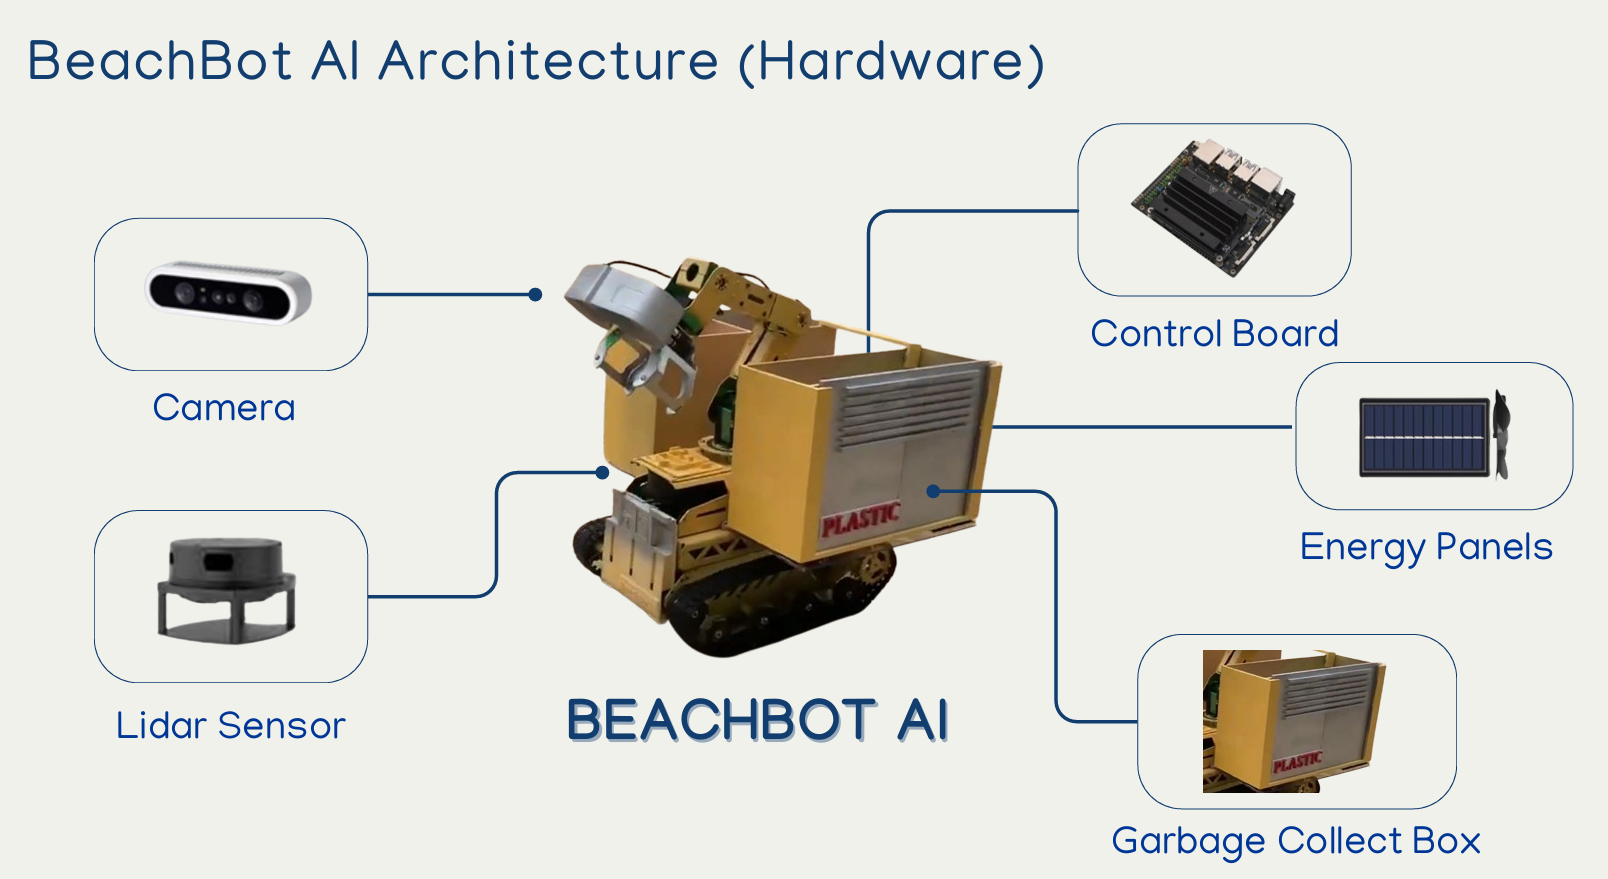
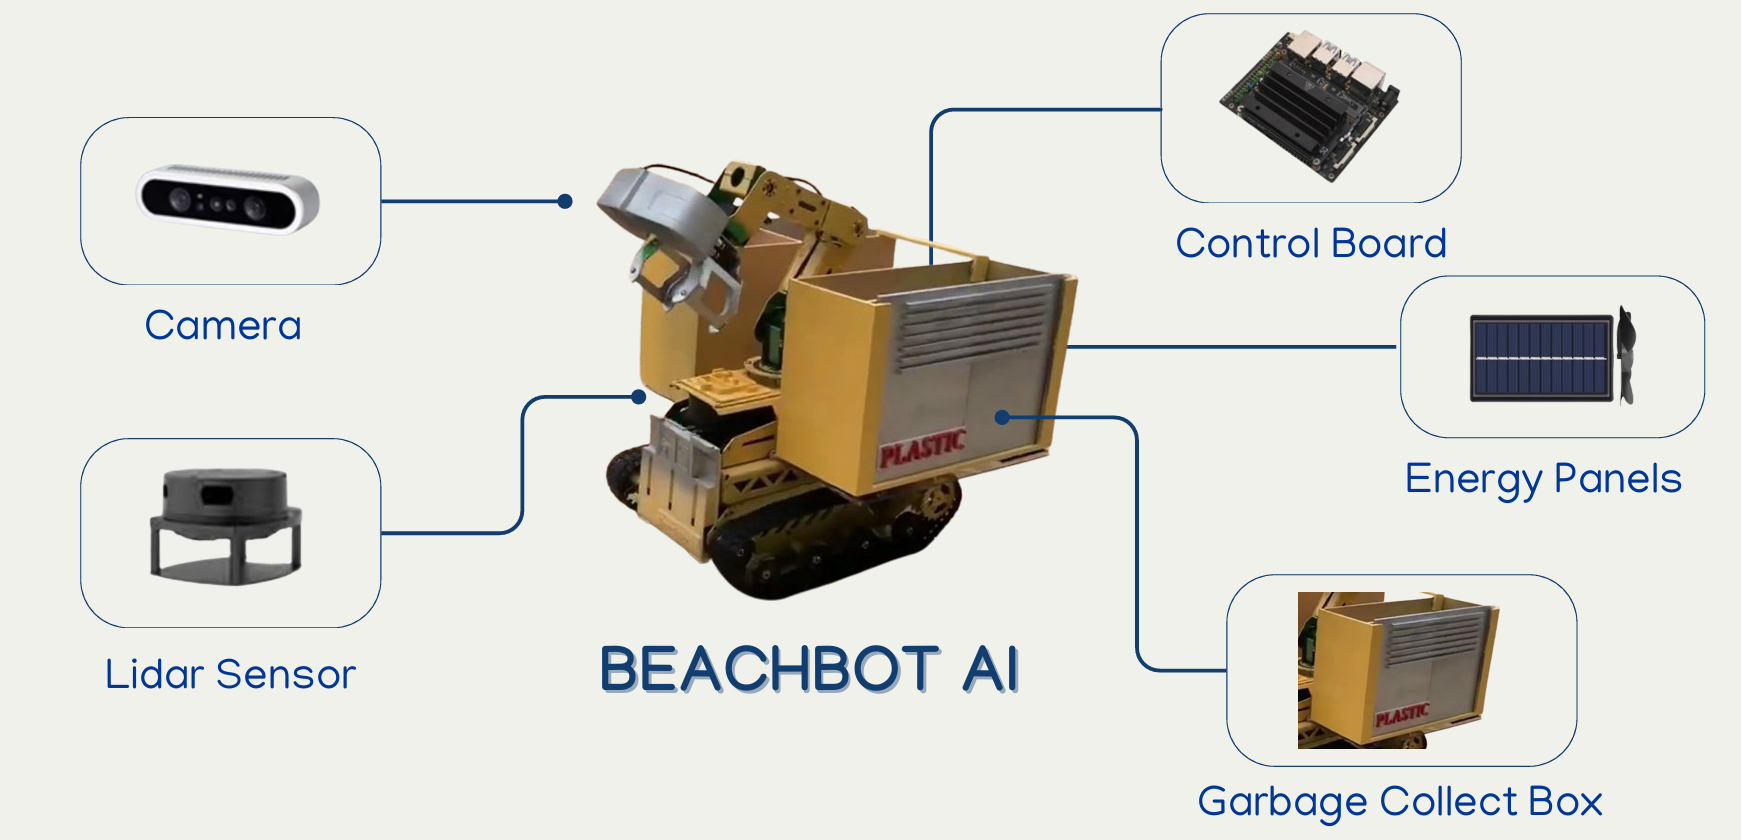
fix picture

diff --git a/README.md b/README.md
@@ -17,26 +17,6 @@ This project was developed for a robotics competition and focuses on applying AI
 
 ---
 
-## Achievement
-
-  </b>
-- Award: Silver
-- Competition: ITCC Innovation Awards 2024
-<img src="./images/competition1.jpeg" width="500" />
-  </b>
-- Award: Silver
-- Competition: Industrial Project Competition 
-<img src="./images/competition2.jpeg" width="500" />
-  </b>
-- Award: Certificate
-- Competition: YDC Dare to Change Business Pitch
-<img src="./images/competition3.jpeg" width="500" />
-
-  </b>
-- Award: Certificate
-- Competition: Hong Kong University Student Innovation & Entrepreneurship 
-<img src="./images/competition4.jpeg" width="500" />
-
 
 ---
 
@@ -51,10 +31,8 @@ Beach environments face several challenges:
 ---
 
 ## Solution
-
+<img src="./images/solution.png" width="500" />
 BeachBot AI provides an automated cleaning system with:
-./images/soluion.png
-
 - Garbage detection using AI  
 - Autonomous navigation using LiDAR  
 - Waste collection and classification  
@@ -64,24 +42,25 @@ BeachBot AI provides an automated cleaning system with:
 
 ## System Overview
 
-Architecture (Hardware):
-./images/architecture.png
 
+<img src="./images/architecture.png" width="500" />
+
+Architecture (Hardware):
 The system consists of:
 
 - Camera for object detection  
-./images/yolo.png
+<img src="./images/yolo.png" width="200" />
 
 - LiDAR sensor for mapping and obstacle avoidance  
-./images/lidar.png
-- Control board for navigation  
+<img src="./images/lidar.png" width="200" />
 
+- Control board for navigation  
 - Garbage collection mechanism  
 
 ---
 
 ## How It Works
-./images/work_flow.png
+<img src="./images/work_flow.png" width="500" />
 1. Detect waste using AI  
 2. Navigate the environment autonomously  
 3. Collect and sort garbage  
@@ -94,14 +73,7 @@ The system consists of:
 - Lower operational cost  
 ---
 
-## Project Media
-
-Images:
-./images/robot.jpg  
----
-
 ## Report
-
 ./docs/Beachbot.pdf  
 
 ---
@@ -121,3 +93,24 @@ Images:
 - System integration between hardware and software  
 - Problem-solving in real-world scenarios  
 - Team collaboration in engineering projects  
+
+
+## Achievement
+
+  </b>
+- Award: Silver
+- Competition: ITCC Innovation Awards 2024
+<img src="./images/competition1.jpeg" width="500" />
+  </b>
+- Award: Silver
+- Competition: Industrial Project Competition 
+<img src="./images/competition2.jpeg" width="500" />
+  </b>
+- Award: Certificate
+- Competition: YDC Dare to Change Business Pitch
+<img src="./images/competition3.jpeg" width="500" />
+
+  </b>
+- Award: Certificate
+- Competition: Hong Kong University Student Innovation & Entrepreneurship 
+<img src="./images/competition4.jpeg" width="500" />